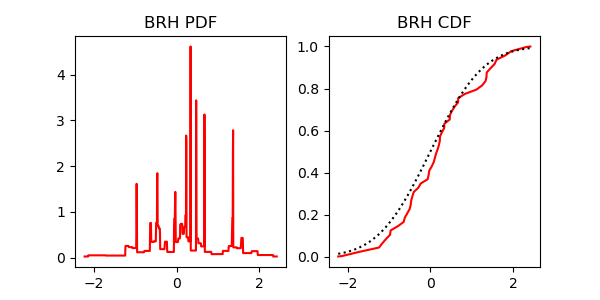
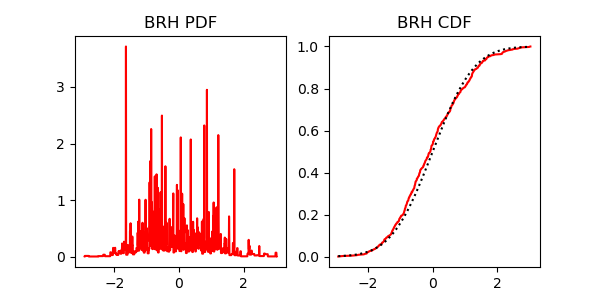
finished setting up brh distribution fitting, pdf, cdf and inverse cdf.

diff --git a/distributions/bounded_rank_histogram_main.py b/distributions/bounded_rank_histogram_main.py
@@ -336,42 +336,54 @@ def eval_brh_pdf( eval_pts, brh_pts, brh_cdf ):
 
 
 
+
+
+
+
+
+
+
+
+
+
+
+
+
+
+
+
+
+
+
+
+
+
+
 '''
-    Functions to perform sanity checks
+    SANITY CHECKS
 '''
 
-def visualize_brh_distribution( brh_pts, brh_cdf ):
+if __name__ == '__main__':
 
     from matplotlib import use as mpl_use
     mpl_use('agg')
     import matplotlib.pyplot as plt
+    from scipy.stats import norm
+    
+    samples = np.random.normal(size=500)
+    brh_pts, brh_cdf = fit_brh_dist( samples, exterior_scaling = 0.1, left_bound = None, right_bound = None )
 
     # Generate PDF
-    many_pts = np.linspace( brh_pts[0], brh_pts[-1], 1001 )
-    dx = many_pts[1] - many_pts[0]
-    many_cdf = np.interp( many_pts, brh_pts, brh_cdf )
-    pdf_pts = ( many_pts[1:] + many_pts[:-1] )/2.
-    pdf_val = (many_cdf[1:] - many_cdf[:-1])/dx
+    many_pts = np.linspace( brh_pts[0], brh_pts[-1], 1000 )
+    pdf_vals = eval_brh_pdf( many_pts, brh_pts, brh_cdf)
+
 
     # Plot PDF and CDF
     fig, axs = plt.subplots( nrows=1, ncols=2, figsize = (6,3) )
-    axs[0].plot( pdf_pts, pdf_val, '-r')
+    axs[0].plot( many_pts, pdf_vals, '-r')
     axs[0].set_title('BRH PDF')
     axs[1].plot( brh_pts, brh_cdf, '-r')
     axs[1].set_title('BRH CDF')
-    
-    
-    return fig, axs
-
-
-
-def demo_brh_distribution():
-    
-    # Plot out BRH CDF
-    from scipy.stats import norm
-    samples = np.random.normal(size=50)
-    brh_pts, brh_cdf = fit_bounded_rank_histogram( samples, exterior_scaling = 0.1, left_bound = None, right_bound = None )
-    fig, axs = visualize_brh_distribution( brh_pts, brh_cdf )
 
     # Overlay with actual CDF
     cdf_check_pts = np.linspace(brh_pts[0], brh_pts[-1], 1001)
@@ -379,6 +391,3 @@ def demo_brh_distribution():
     axs[1].plot( cdf_check_pts, gaussian_cdf, ':k' )
     plt.savefig('visualize_brh.png')
     plt.close()
-
-    return
-
